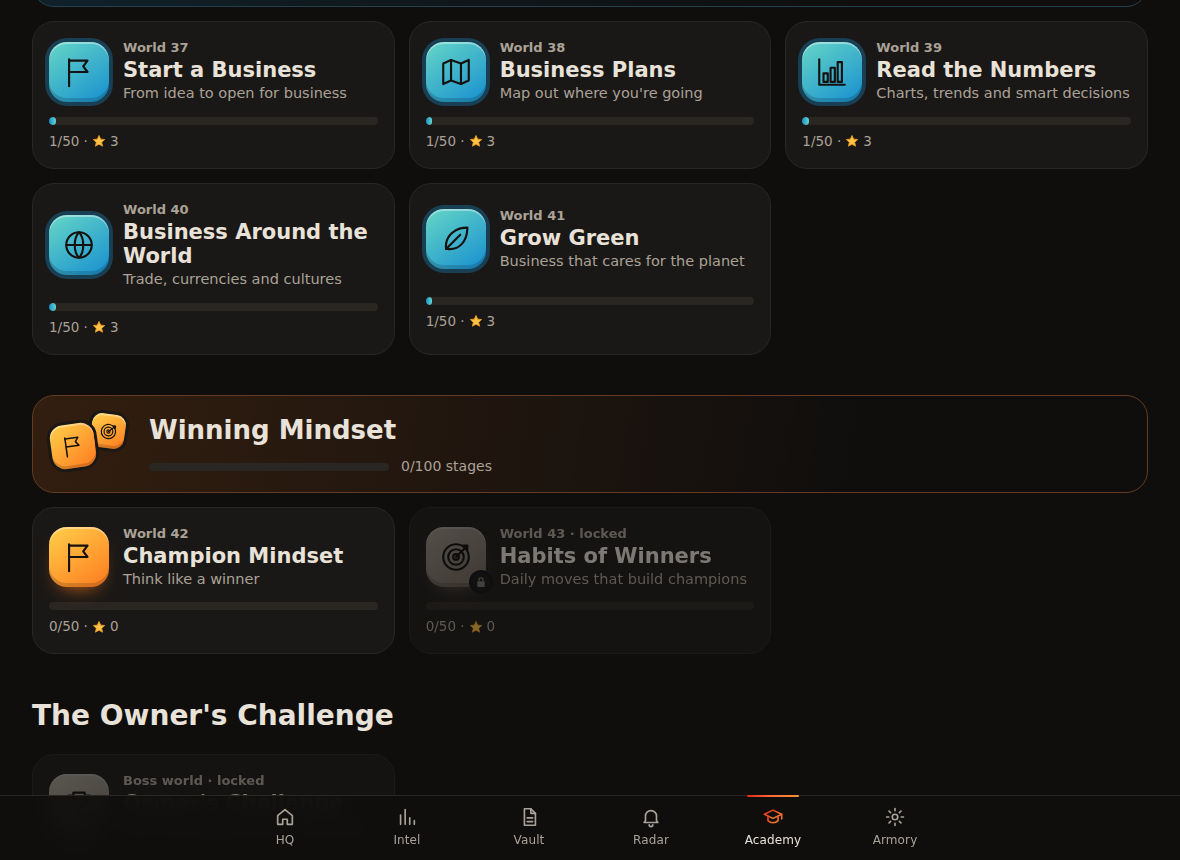
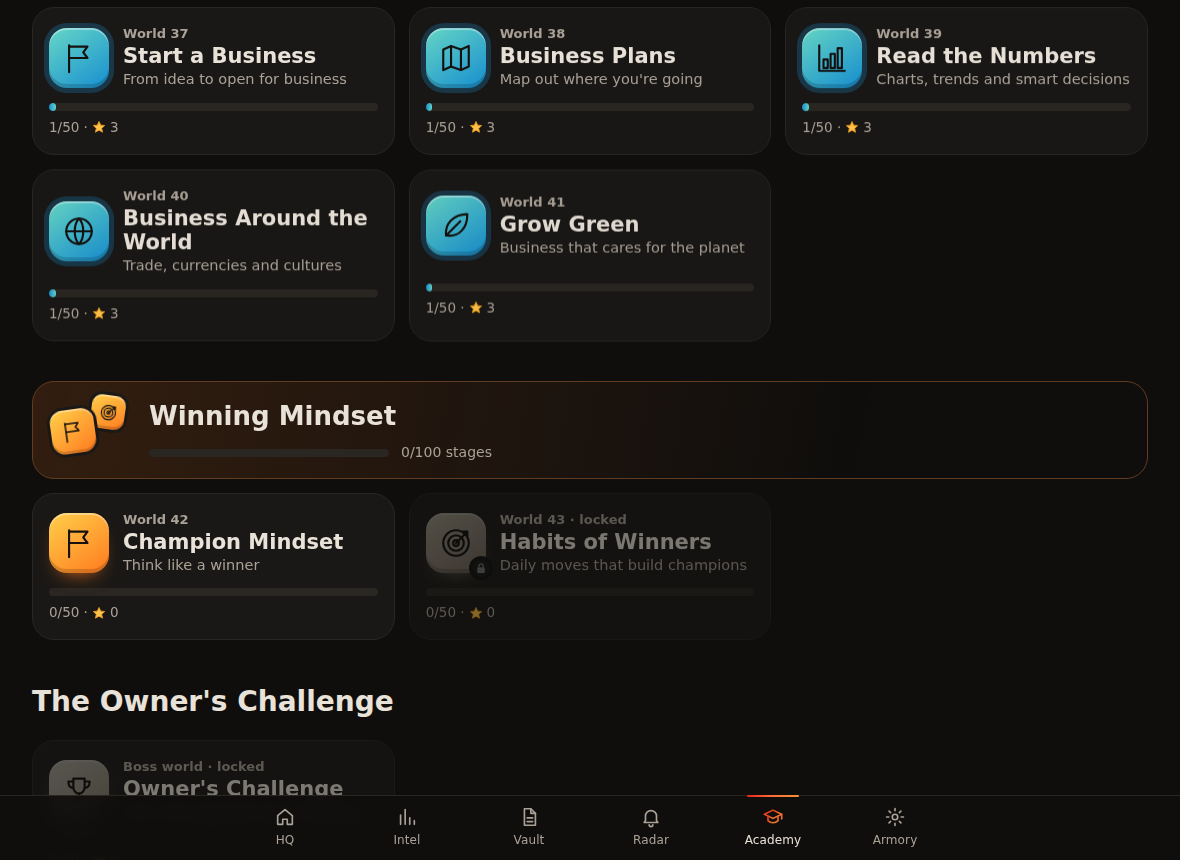
Academy: world scenes and game-like animations
Graphics:
- Each world page opens on a little scene in its unit's colors: rolling
  hills, a glowing sun, drifting clouds, the world's sticker with a light
  sweeping across it, things from that part of business floating around,
  and Armo standing on the hill.

Animations (all off for people who prefer reduced motion):
- Map cards and unit headers rise in; unit stickers float; badges wiggle on
  hover; the world in progress has a shine.
- Lesson cards slide in (back slides the other way) and Armo hops in.
- A right answer throws a burst of sparks and its letter pops; a miss shakes.
- On a streak of 3 or more, the progress bar shimmers and a flame lights up.
- The current stage has a bouncing marker.
- Results count the score up, with a slow sunburst behind the stars on a win.

Claude-Session: https://claude.ai/code/session_01ECj9hY49SPW8RX9VTCjATx

diff --git a/omniarmor_app/static/academy.css b/omniarmor_app/static/academy.css
@@ -347,9 +347,9 @@
 .ac-unit-art{position:relative;width:82px;height:60px;flex:none}
 .ac-mini{position:absolute;display:grid;place-items:center;border-radius:30%;color:var(--glyph);background:linear-gradient(145deg,var(--u2),var(--u1));
   box-shadow:inset 0 2px 0 rgba(255,255,255,.38),inset 0 -3px 0 rgba(0,0,0,.16),0 0 0 3px var(--card)}
-.ac-mini:nth-child(1){width:44px;height:44px;left:0;top:10px;transform:rotate(-8deg);z-index:2}
-.ac-mini:nth-child(2){width:34px;height:34px;left:40px;top:0;transform:rotate(8deg)}
-.ac-mini:nth-child(3){width:28px;height:28px;left:50px;top:31px;transform:rotate(-5deg);z-index:1}
+.ac-mini:nth-child(1){width:44px;height:44px;left:0;top:10px;rotate:-8deg;z-index:2}
+.ac-mini:nth-child(2){width:34px;height:34px;left:40px;top:0;rotate:8deg;animation-delay:-1.3s}
+.ac-mini:nth-child(3){width:28px;height:28px;left:50px;top:31px;rotate:-5deg;z-index:1;animation-delay:-2.6s}
 .ac-unit-info{display:flex;flex-direction:column;gap:6px;min-width:0}
 .ac-unit-line{display:flex;align-items:center;gap:12px}
 .ac-unit-line .ac-meter{flex:1;max-width:240px}
@@ -388,6 +388,101 @@
   .ac-mini:nth-child(3){width:24px;height:24px;left:38px;top:27px}
   .ac-unit-head .ac-h2{font-size:22px}
   .ac-story-buddy{width:76px;height:76px}
+}
+
+/* Motion. A few purposeful moments: things arrive, react to a tap and
+   celebrate a win. All of it switches off for people who prefer less motion. */
+@keyframes rise{from{opacity:0;translate:0 14px}to{opacity:1;translate:0 0}}
+@keyframes floaty{0%,100%{translate:0 0}50%{translate:0 -5px}}
+@keyframes wiggle{0%,100%{rotate:0deg}25%{rotate:-9deg}55%{rotate:7deg}80%{rotate:-3deg}}
+@keyframes sheen{0%,62%{left:-70%}88%,100%{left:140%}}
+@keyframes spark{from{transform:rotate(var(--a)) translateX(6px) scale(1);opacity:1}to{transform:rotate(var(--a)) translateX(var(--d)) scale(.2);opacity:0}}
+@keyframes popin{0%{scale:.4}60%{scale:1.25}100%{scale:1}}
+@keyframes cardIn{from{opacity:0;translate:32px 0}to{opacity:1;translate:0 0}}
+@keyframes cardBack{from{opacity:0;translate:-32px 0}to{opacity:1;translate:0 0}}
+@keyframes shimmer{from{translate:-100% 0}to{translate:100% 0}}
+@keyframes drift{from{translate:0 0}to{translate:560px 0}}
+@keyframes glow{0%,100%{opacity:.55;scale:1}50%{opacity:.85;scale:1.08}}
+@keyframes nudge{0%,100%{translate:0 0}50%{translate:0 4px}}
+
+.ac-worlds > li,.ac-unit-head{animation:rise .5s cubic-bezier(.2,.8,.3,1) both}
+.ac-worlds > li:nth-child(2){animation-delay:.05s}.ac-worlds > li:nth-child(3){animation-delay:.1s}
+.ac-worlds > li:nth-child(4){animation-delay:.15s}.ac-worlds > li:nth-child(5){animation-delay:.2s}
+.ac-worlds > li:nth-child(6){animation-delay:.25s}.ac-worlds > li:nth-child(n+7){animation-delay:.3s}
+.ac-mini{animation:floaty 4s ease-in-out infinite}
+.ac-world a:hover .ac-world-badge{animation:wiggle .6s ease}
+.ac-world.started a:hover .ac-world-badge{animation:upulse 1.8s ease-in-out infinite,wiggle .6s ease}
+
+/* A light sweeping across a sticker: on the world in progress, the world's own badge and its scene. */
+.ac-shine{position:absolute;inset:0;border-radius:inherit;overflow:hidden;pointer-events:none}
+.ac-shine::before{content:"";position:absolute;top:-25%;bottom:-25%;left:-70%;width:42%;transform:skewX(-18deg);
+  background:linear-gradient(100deg,transparent,rgba(255,255,255,.6),transparent);display:none}
+.ac-world.started .ac-shine::before,.ac-level-badge .ac-shine::before,.ac-scene .ac-shine::before{display:block;animation:sheen 4.2s ease-in-out infinite}
+
+/* A world's scene: hills, a sun, drifting clouds, its sticker and Armo on the hill. */
+.ac-world-hero{display:grid;grid-template-columns:minmax(0,1fr) minmax(250px,380px);align-items:center;gap:16px 28px}
+.ac-world-hero .ac-title{margin-bottom:6px}
+.ac-scene{position:relative;height:176px;border-radius:24px;overflow:hidden;isolation:isolate;
+  background:linear-gradient(180deg,color-mix(in srgb,var(--u1) 24%,var(--card)) 0%,var(--card) 92%);
+  border:1px solid color-mix(in srgb,var(--u1) 30%,var(--line))}
+.ac-hills{position:absolute;left:0;right:0;bottom:0;width:100%;height:58%}
+.ac-hills .h1{fill:color-mix(in srgb,var(--u1) 34%,var(--card))}
+.ac-hills .h2{fill:color-mix(in srgb,var(--u1) 58%,var(--card))}
+.ac-sun{position:absolute;right:20px;top:16px;width:52px;height:52px;border-radius:50%;
+  background:radial-gradient(circle,var(--u2) 0 34%,color-mix(in srgb,var(--u2) 0%,transparent) 70%);animation:glow 4.5s ease-in-out infinite}
+.ac-cloud{position:absolute;left:-90px;height:12px;border-radius:999px;background:#fff;opacity:.13;animation:drift 30s linear infinite}
+.ac-cloud::before,.ac-cloud::after{content:"";position:absolute;bottom:5px;border-radius:50%;background:#fff}
+.ac-cloud::before{left:18%;width:34%;aspect-ratio:1}
+.ac-cloud::after{left:44%;width:26%;aspect-ratio:1}
+.ac-cloud.c1{width:66px;top:26px}
+.ac-cloud.c2{width:44px;top:58px;animation-duration:40s;animation-delay:-18s}
+.ac-scene-sticker,.ac-scene-mini{position:absolute;display:grid;place-items:center;border-radius:30%;color:var(--glyph);
+  background:linear-gradient(145deg,var(--u2),var(--u1));box-shadow:inset 0 2px 0 rgba(255,255,255,.38),inset 0 -4px 0 rgba(0,0,0,.16),0 10px 18px -10px rgba(0,0,0,.6)}
+.ac-scene-sticker{left:40%;top:20px;width:72px;height:72px;rotate:-4deg;animation:floaty 3.6s ease-in-out infinite;z-index:2}
+.ac-scene-mini{animation:floaty 4.2s ease-in-out infinite}
+.ac-scene-mini.m1{left:67%;top:72px;width:34px;height:34px;rotate:9deg;animation-delay:-1s}
+.ac-scene-mini.m2{left:83%;top:104px;width:28px;height:28px;rotate:-7deg;animation-delay:-2.2s}
+.ac-scene-mini.m3{left:25%;top:22px;width:28px;height:28px;rotate:6deg;animation-delay:-3.1s}
+.ac-spark{position:absolute;color:var(--u2);animation:twinkle 2.2s ease-in-out infinite}
+.ac-spark.s1{left:35%;top:12px}.ac-spark.s2{left:62%;top:40px;animation-delay:-.8s}.ac-spark.s3{left:90%;top:80px;animation-delay:-1.5s;color:#fff}
+.ac-scene-armo{position:absolute;left:4%;bottom:0;z-index:3}
+.ac-scene-armo .armo{animation:bob 3s ease-in-out infinite}
+
+/* The stage you're on gets a bouncing marker. */
+.ac-stage.current a{position:relative}
+.ac-stage.current a::after{content:"";position:absolute;top:-13px;left:50%;margin-left:-7px;border:7px solid transparent;border-top-color:var(--u1);animation:nudge 1s ease-in-out infinite}
+
+/* Lesson cards slide in, and Armo hops in with each one. */
+.js .ac-story-card.active{animation:cardIn .4s cubic-bezier(.2,.9,.3,1.1) both}
+.js .ac-story-card.active.back{animation-name:cardBack}
+.js .ac-story-card.active .ac-story-buddy .armo{animation:hop .7s ease-out both}
+.ac-story.all .ac-story-card,.ac-story.all .ac-story-buddy .armo{animation:none}
+
+/* Answers: sparks from a right one, a shake for a miss. */
+.ac-burst{position:absolute;left:31px;top:50%;width:0;height:0;pointer-events:none;z-index:2}
+.ac-burst i{position:absolute;left:-3px;top:-3px;width:6px;height:6px;border-radius:50%;background:var(--mint);animation:spark .75s cubic-bezier(.2,.7,.3,1) forwards}
+.ac-burst i:nth-child(3n){background:var(--sun)}
+.ac-burst i:nth-child(3n+1){background:var(--u2);width:5px;height:5px;border-radius:1px}
+.ac-opt.right .ac-letter{animation:popin .45s cubic-bezier(.3,1.6,.5,1)}
+.ac-opt.wrong{animation:shake .4s ease}
+
+/* On a streak of 3 or more, the progress bar shimmers and a flame lights up. */
+.ac-hud-flame{display:none;margin-left:6px;vertical-align:-2px;color:#FF8A2B}
+.ac-hud.hot .ac-hud-flame{display:inline-block;animation:flicker 1.2s ease-in-out infinite}
+.ac-hud .ac-meter-fill{position:relative;overflow:hidden}
+.ac-hud.hot .ac-meter-fill::after{content:"";position:absolute;inset:0;background:linear-gradient(100deg,transparent 15%,rgba(255,255,255,.5) 50%,transparent 85%);animation:shimmer 1.3s linear infinite}
+
+/* A win: the score counts up and a slow sunburst turns behind the stars. */
+.ac-score{font-family:var(--kid);font-size:1.25em;color:var(--ink);font-variant-numeric:tabular-nums}
+.ac-big-stars{position:relative;isolation:isolate}
+.ac-result.win .ac-big-stars::before{content:"";position:absolute;left:50%;top:50%;width:300px;height:300px;margin:-150px 0 0 -150px;border-radius:50%;z-index:-1;
+  background:repeating-conic-gradient(color-mix(in srgb,var(--u2) 26%,transparent) 0 9deg,transparent 9deg 18deg);
+  -webkit-mask:radial-gradient(circle,#000 22%,transparent 68%);mask:radial-gradient(circle,#000 22%,transparent 68%);animation:aura 22s linear infinite}
+
+@media (max-width:720px){
+  .ac-world-hero{grid-template-columns:minmax(0,1fr)}
+  .ac-scene{order:-1;height:150px}
+  .ac-scene-sticker{width:62px;height:62px;top:16px}
 }
 
 @media print{

diff --git a/omniarmor_app/static/academy.js b/omniarmor_app/static/academy.js
@@ -8,6 +8,7 @@
   document.addEventListener("DOMContentLoaded", function () {
     var story = document.querySelector("[data-story]");
     var quiz = document.querySelector("[data-quiz]");
+    countUp();
     if (!quiz) return;
 
     // --- Lesson cards, one at a time ---------------------------------------
@@ -24,8 +25,12 @@
       story.appendChild(nav);
 
       var show = function (i) {
+        var backwards = i < index;
         index = i;
-        cards.forEach(function (card, n) { card.classList.toggle("active", n === index); });
+        cards.forEach(function (card, n) {
+          card.classList.toggle("back", backwards);
+          card.classList.toggle("active", n === index);
+        });
         back.hidden = index === 0;
         next.textContent = index === cards.length - 1 ? "Start the quiz!" : "Next";
       };
@@ -36,6 +41,7 @@
           next.focus();
         } else {
           quiz.classList.remove("waiting");
+          story.classList.add("all");
           nav.hidden = true;
           cards.forEach(function (card) { card.classList.add("active"); });
           var first = quiz.querySelector("input[type=radio]");
@@ -102,10 +108,12 @@
       if (gotIt) {
         right += 1;
         streak += 1;
+        if (hud) hud.classList.toggle("hot", streak >= 3);
         face("cheer");
         say(STREAKS[streak] || pick(CHEERS), true);
       } else {
         streak = 0;
+        if (hud) hud.classList.remove("hot");
         face("think");
         say(pick(TRY_AGAIN), false);
       }
@@ -135,6 +143,7 @@
         input.setAttribute("data-first", "");
         var gotIt = input.value === answer;
         q.classList.add("locked", gotIt ? "got-it" : "missed");
+        if (gotIt) burst(input.closest(".ac-opt"));
         Array.prototype.forEach.call(q.querySelectorAll("input"), function (other) {
           var label = other.closest(".ac-opt");
           if (other.value === answer) label.classList.add("right");
@@ -149,6 +158,39 @@
     });
     updateCount();
   });
+
+  // A little burst of sparks from a right answer.
+  function burst(label) {
+    if (!label || reduceMotion()) return;
+    var spray = document.createElement("span");
+    spray.className = "ac-burst";
+    spray.setAttribute("aria-hidden", "true");
+    for (var n = 0; n < 12; n++) {
+      var bit = document.createElement("i");
+      bit.style.setProperty("--a", (n * 30 + Math.round(Math.random() * 14)) + "deg");
+      bit.style.setProperty("--d", (34 + Math.round(Math.random() * 22)) + "px");
+      spray.appendChild(bit);
+    }
+    label.appendChild(spray);
+    setTimeout(function () { spray.remove(); }, 900);
+  }
+
+  // Scores on the results page count up from zero.
+  function countUp() {
+    Array.prototype.forEach.call(document.querySelectorAll("[data-countup]"), function (el) {
+      var target = parseInt(el.textContent, 10);
+      if (!(target > 0) || reduceMotion()) return;
+      var start = null;
+      var step = function (now) {
+        if (start === null) start = now;
+        var t = Math.min(1, (now - start) / 700);
+        el.textContent = Math.round(target * (1 - Math.pow(1 - t, 3)));
+        if (t < 1) window.requestAnimationFrame(step);
+      };
+      el.textContent = "0";
+      window.requestAnimationFrame(step);
+    });
+  }
 
   function button(text, className) {
     var b = document.createElement("button");

diff --git a/omniarmor_app/templates/academy/_art.html b/omniarmor_app/templates/academy/_art.html
@@ -327,6 +327,36 @@ u-{{ w.unit if w.kind == 'topic' and w.unit else w.kind }}
 {%- elif state in ('locked', 'paid') %}<span class="ac-sticker lock" aria-hidden="true"><svg viewBox="0 0 16 16" width="12" height="12"><rect x="3" y="7" width="10" height="7.5" rx="1.6" fill="currentColor"/><path d="M5.3 7 V5.2 C5.3 3.6 6.5 2.5 8 2.5 C9.5 2.5 10.7 3.6 10.7 5.2 V7" fill="none" stroke="currentColor" stroke-width="1.8"/></svg></span>{% endif %}
 {%- endmacro %}
 
+{% macro sparkle(size=14) -%}
+<svg class="sparkle" viewBox="0 0 20 20" width="{{ size }}" height="{{ size }}" aria-hidden="true"><path d="M10 0 C11 7 13 9 20 10 C13 11 11 13 10 20 C9 13 7 11 0 10 C7 9 9 7 10 0 Z" fill="currentColor"/></svg>
+{%- endmacro %}
+
+{% macro scene(world, accessory='none') -%}
+{# A little landscape for a world: hills in the unit's colors, the world's sticker,
+   a few things from that part of business floating around, and Armo on the hill. #}
+{% set unit = world.unit if world.kind == 'topic' and world.unit else world.kind %}
+{% set extras = ({
+  'foundations': ['coin', 'book', 'calendar', 'building'], 'leadership': ['shield', 'mountain', 'star', 'team'],
+  'money': ['coin', 'piggy', 'bank', 'chart'], 'growth': ['megaphone', 'rocket', 'badge', 'chart'],
+  'operations': ['gear', 'box', 'hardhat', 'clock'], 'mindset': ['bulb', 'clock', 'target', 'brain'],
+  'trust': ['handshake', 'lock', 'scroll', 'shield'], 'bigpicture': ['globe', 'map', 'chart', 'leaf'],
+  'champion': ['star', 'target', 'flame', 'flag'], 'final': ['star', 'flag', 'flame', 'badge'],
+  'industry': ['shield', 'light', 'calendar', 'scale'],
+}.get(unit, ['star', 'bulb', 'flag', 'coin']) | reject('equalto', world.icon) | list)[:3] %}
+<div class="ac-scene" aria-hidden="true">
+  <span class="ac-sun"></span>
+  <span class="ac-cloud c1"></span><span class="ac-cloud c2"></span>
+  <svg class="ac-hills" viewBox="0 0 400 120" preserveAspectRatio="none">
+    <path class="h1" d="M0 64 C70 34 140 36 210 58 C280 80 340 56 400 40 V120 H0 Z"/>
+    <path class="h2" d="M0 90 C80 66 160 72 236 90 C306 106 354 94 400 82 V120 H0 Z"/>
+  </svg>
+  <span class="ac-scene-sticker">{{ level_icon(world.icon, 46) }}<span class="ac-shine"></span></span>
+  {% for name in extras %}<span class="ac-scene-mini m{{ loop.index }}">{{ level_icon(name, [18, 15, 14][loop.index0]) }}</span>{% endfor %}
+  <span class="ac-spark s1">{{ sparkle(14) }}</span><span class="ac-spark s2">{{ sparkle(10) }}</span><span class="ac-spark s3">{{ sparkle(12) }}</span>
+  <span class="ac-scene-armo">{{ armo(74, 'happy', accessory) }}</span>
+</div>
+{%- endmacro %}
+
 {% macro star(filled=true, size=22) -%}
 <svg class="star {{ 'on' if filled else 'off' }}" viewBox="0 0 24 24" width="{{ size }}" height="{{ size }}" aria-hidden="true">
   <path d="M12 2.5 L14.9 8.8 L21.8 9.5 L16.6 14.1 L18.1 20.9 L12 17.4 L5.9 20.9 L7.4 14.1 L2.2 9.5 L9.1 8.8 Z"/>

diff --git a/omniarmor_app/templates/academy/world.html b/omniarmor_app/templates/academy/world.html
@@ -1,5 +1,5 @@
 {% extends "base.html" %}
-{% from "academy/_art.html" import armo, hue, level_icon, stars %}
+{% from "academy/_art.html" import armo, hue, level_icon, scene, stars %}
 {% block title %}{{ world.title }}{% endblock %}
 {% block head %}
 <link rel="stylesheet" href="{{ academy_font }}">
@@ -9,13 +9,13 @@
 {% set buddy = armo_personality(learner.armo, 'sweet') %}
 <div class="ac {{ hue(world) }}">
   <p class="ac-crumb"><a href="{{ url_for('academy.level_map', learner_id=learner.id) }}">← {{ learner.nickname }}'s map</a></p>
-  <header class="ac-level-head">
-    <span class="ac-level-badge">{{ level_icon(world.icon, 44) }}</span>
-    <div>
+  <header class="ac-world-hero">
+    <div class="ac-world-hero-text">
       <p class="ac-kicker">{{ track.name }} · {% if world.kind == 'topic' %}{{ unit_names.get(world.unit, world.unit|title) }}{% elif world.kind == 'final' %}Boss world{% else %}Rule Quest · {{ world.tagline }}{% endif %}</p>
       <h1 class="ac-title">{{ world.title }}</h1>
       <p class="ac-lead">{{ card.done }} of {{ card.stages }} stages done · {{ card.stars }} of {{ card.stages * 3 }} stars</p>
     </div>
+    {{ scene(world, buddy.accessory) }}
   </header>
 
   {% if current %}

diff --git a/omniarmor_app/templates/academy/result.html b/omniarmor_app/templates/academy/result.html
@@ -4,6 +4,7 @@
 {% block head %}
 <link rel="stylesheet" href="{{ academy_font }}">
 <link rel="stylesheet" href="{{ url_for('static', filename='academy.css') }}">
+<script src="{{ url_for('static', filename='academy.js') }}" defer></script>
 {% endblock %}
 {% block content %}
 {% set buddy = armo_personality(learner.armo, 'sweet') %}
@@ -13,7 +14,7 @@
     {{ armo(120, 'cheer' if passed else 'think', buddy.accessory) }}
     <p class="ac-kicker">{{ world.title }} · stage {{ stage }}</p>
     <h1 class="ac-title">{% if earned_stars == 3 %}Perfect score!{% elif passed %}Stage complete!{% else %}So close! Try again{% endif %}</h1>
-    <p class="ac-lead">{{ learner.nickname }} got {{ score }} of {{ total }} right.</p>
+    <p class="ac-lead">{{ learner.nickname }} got <strong class="ac-score" data-countup>{{ score }}</strong> of {{ total }} right.</p>
     <div class="ac-big-stars">{{ stars(earned_stars, 52) }}</div>
     <p class="ac-armo-says">{{ buddy.name }} Armo: &ldquo;{{ (buddy.win if passed else buddy.retry)|random }}&rdquo;</p>
     {% if goal_hit %}<p class="ac-unlock">Daily goal reached: {{ daily_goal }} levels today! Streak: {{ summary.streak }} day{{ 's' if summary.streak != 1 }}.</p>{% endif %}

diff --git a/omniarmor_app/templates/academy/map.html b/omniarmor_app/templates/academy/map.html
@@ -13,7 +13,7 @@
   {% if clickable %}<a href="{{ url_for('academy.world_page', learner_id=learner_id, world_number=w.number) }}">
   {% elif card.paid and not g.kid %}<a href="{{ url_for('academy.plan_page') }}">
   {% else %}<span aria-disabled="true">{% endif %}
-    <span class="ac-world-badge">{{ level_icon(w.icon, 34) }}{{ sticker(state) }}</span>
+    <span class="ac-world-badge">{{ level_icon(w.icon, 34) }}<span class="ac-shine"></span>{{ sticker(state) }}</span>
     <span class="ac-world-text">
       <span class="ac-world-num">{% if w.kind == 'topic' %}World {{ number }}{% elif w.kind == 'final' %}Boss world{% else %}Rule Quest{% endif %}{% if card.paid %} · Academy plan{% elif not card.open %} · locked{% endif %}</span>
       <span class="ac-world-title">{{ w.title }}</span>

diff --git a/omniarmor_app/templates/academy/_quiz.html b/omniarmor_app/templates/academy/_quiz.html
@@ -13,7 +13,7 @@
       <span class="ac-hud-armo" data-armo>{{ armo(52, 'happy', buddy.accessory) }}</span>
       <div class="ac-hud-main">
         <div class="ac-meter ac-meter-big"><span class="ac-meter-fill" data-progress></span></div>
-        <p class="ac-hud-line"><span data-right>0</span> right · streak <span data-streak>0</span></p>
+        <p class="ac-hud-line"><span data-right>0</span> right · streak <span data-streak>0</span><span class="ac-hud-flame" aria-hidden="true"><svg viewBox="0 0 48 48" width="15" height="15"><path d="M24 44 C14 44 9 37 10 29 C11 22 17 18 18 10 C23 14 26 19 25 25 C28 23 30 20 30 16 C36 22 38 28 37 33 C36 39 31 44 24 44 Z" fill="currentColor"/></svg></span></p>
       </div>
       <p class="ac-toast" data-toast aria-live="polite"></p>
     </div>

diff --git a/omniarmor_app/templates/academy/level.html b/omniarmor_app/templates/academy/level.html
@@ -11,7 +11,7 @@
 <div class="ac {{ hue(world) }}">
   <p class="ac-crumb"><a href="{{ url_for('academy.world_page', learner_id=learner.id, world_number=world.number) }}">← {{ world.title }}</a></p>
   <header class="ac-level-head">
-    <span class="ac-level-badge">{{ level_icon(world.icon, 44) }}</span>
+    <span class="ac-level-badge">{{ level_icon(world.icon, 44) }}<span class="ac-shine"></span></span>
     <div>
       <p class="ac-kicker">{{ track.name }} · Stage {{ stage }} of {{ stage_count }}{% if boss %} · Boss round{% endif %}</p>
       <h1 class="ac-title">{{ world.title }}</h1>
